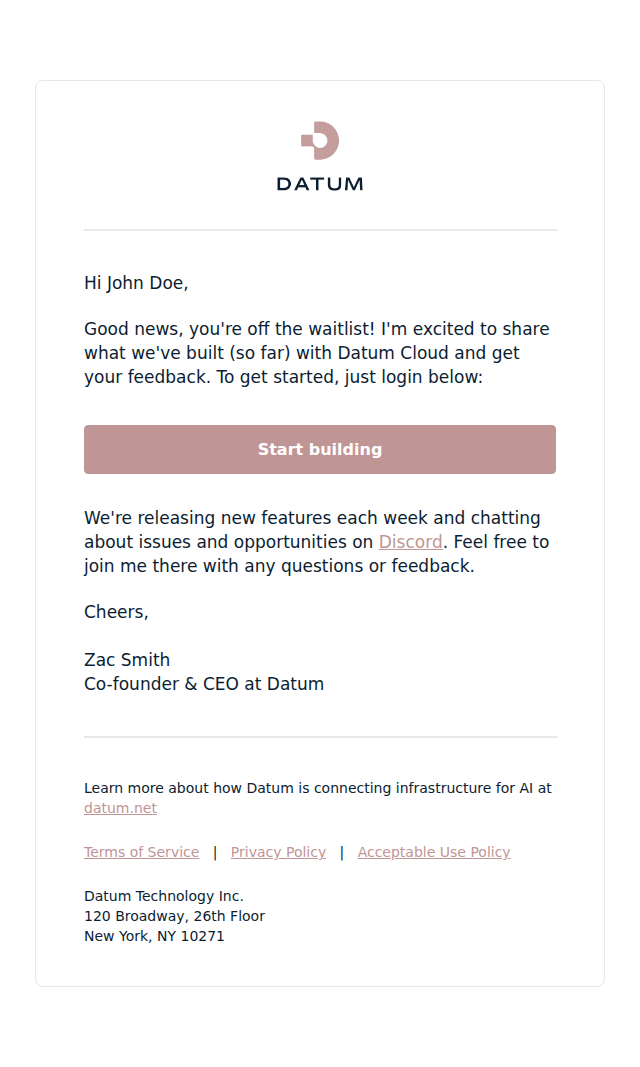
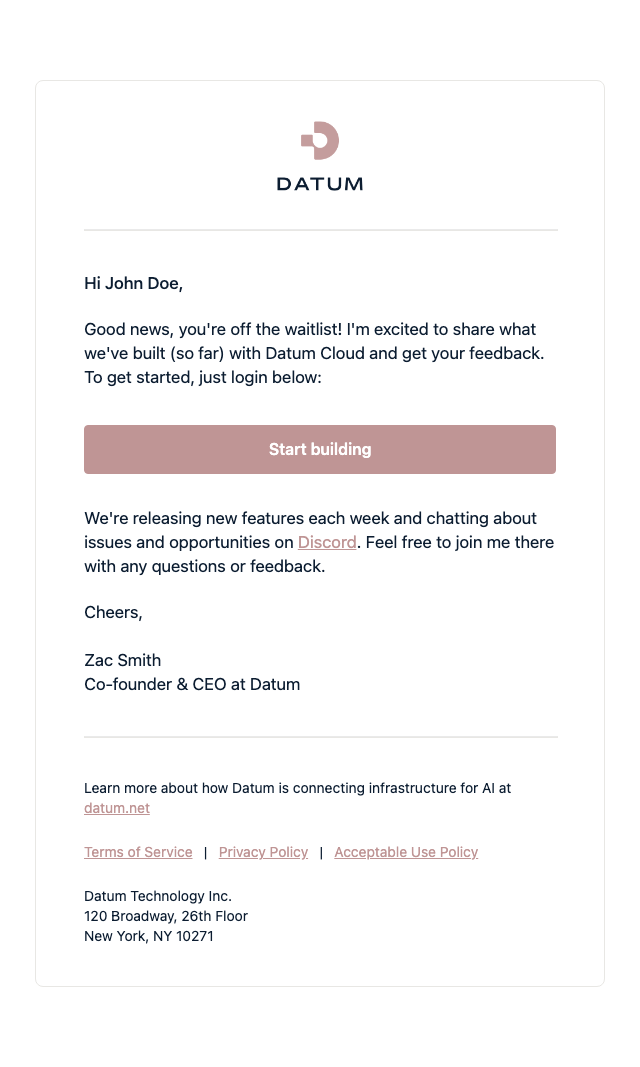
chore: Keep the preview script change out of this PR
Rendering previews unformatted changes every template's preview, so CI
re-shot seven templates this PR doesn't touch. That change moves to its
own PR; main's screenshots are back.

diff --git a/scripts/render-preview-html.ts b/scripts/render-preview-html.ts
@@ -12,7 +12,7 @@
  */
 import fs from 'node:fs';
 import path from 'node:path';
-import { render } from 'react-email';
+import { pretty, render } from 'react-email';
 
 const ROOT = path.resolve(__dirname, '..');
 const EMAILS_DIR = path.join(ROOT, 'emails');
@@ -53,9 +53,7 @@ async function main() {
     }
 
     const previewProps = component.PreviewProps ?? {};
-    // Unformatted, like the HTML sent: formatting would add line breaks
-    // inside text that keeps its own line breaks (white-space: pre-line).
-    const html = await render(component(previewProps));
+    const html = await pretty(await render(component(previewProps)));
     fs.writeFileSync(path.join(OUT_DIR, `${baseName}.html`), html, 'utf8');
     console.log(`Rendered ${baseName}.html`);
   }

diff --git a/emails/payment-terms-application-submitted.tsx b/emails/payment-terms-application-submitted.tsx
@@ -110,7 +110,7 @@ PaymentTermsApplicationSubmitted.PreviewProps = {
   PaymentOption: 'Pay by invoice',
   EstimatedMonthlySpend: '$2,500–$10,000',
   Situation:
-    "Our company pays software vendors by purchase order on net-30 terms, so we can't use a corporate card.\n\nOur AP team needs the PO number on every invoice.",
+    "Our company pays software vendors by purchase order on net-30 terms, so we can't use a corporate card.",
   ReviewUrl:
     'https://staff.datum.net/customers/billing-accounts/applications/acme-corp/apply-acme-billing-x7k2p',
 } as PaymentTermsApplicationSubmittedProps;
